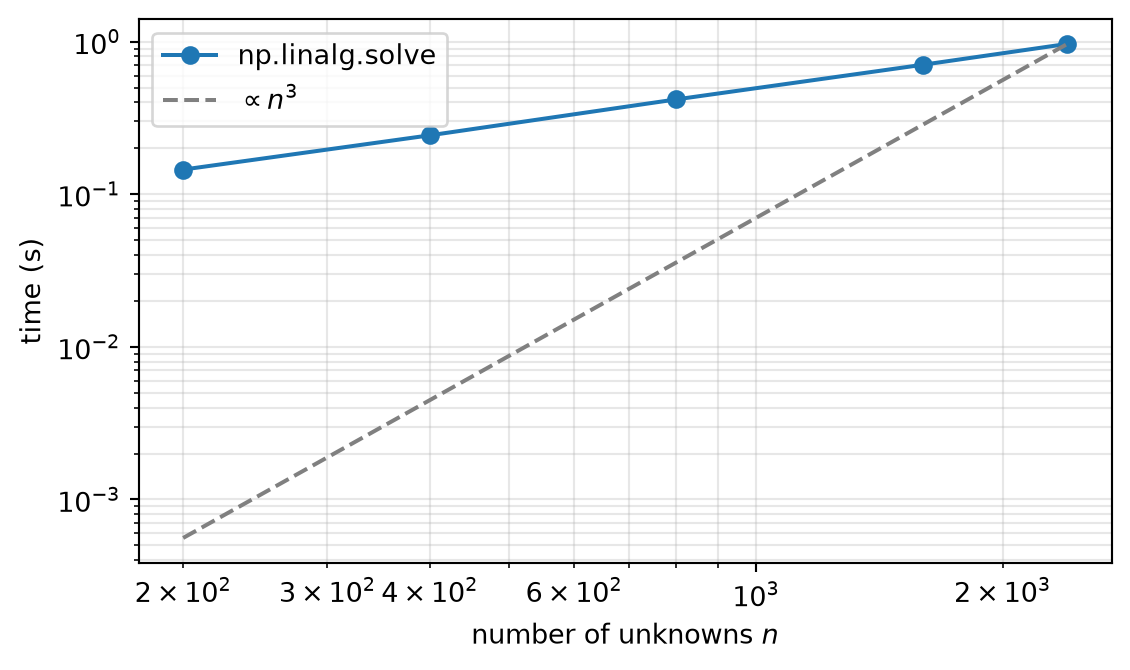
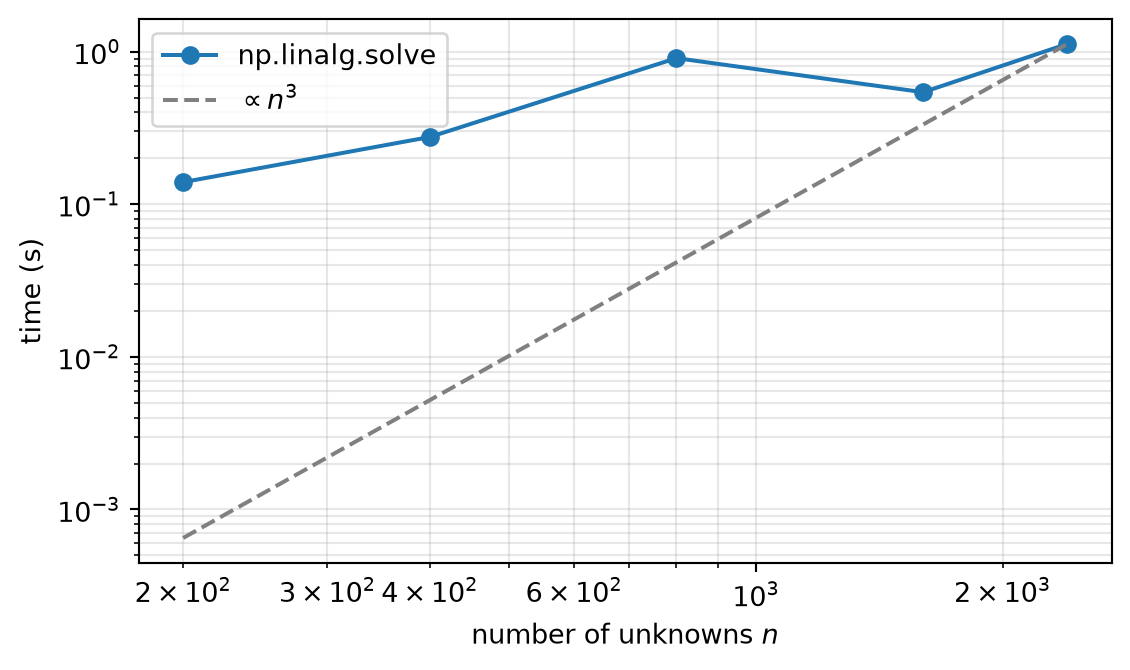
Making sure all figures are referred to in the text

diff --git a/site_libs/clipboard/clipboard.min.js b/site_libs/clipboard/clipboard.min.js
@@ -1,0 +1,7 @@
+/*!
+ * clipboard.js v2.0.11
+ * https://clipboardjs.com/
+ *
+ * Licensed MIT © Zeno Rocha
+ */
+!function(t,e){"object"==typeof exports&&"object"==typeof module?module.exports=e():"function"==typeof define&&define.amd?define([],e):"object"==typeof exports?exports.ClipboardJS=e():t.ClipboardJS=e()}(this,function(){return n={686:function(t,e,n){"use strict";n.d(e,{default:function(){return b}});var e=n(279),i=n.n(e),e=n(370),u=n.n(e),e=n(817),r=n.n(e);function c(t){try{return document.execCommand(t)}catch(t){return}}var a=function(t){t=r()(t);return c("cut"),t};function o(t,e){var n,o,t=(n=t,o="rtl"===document.documentElement.getAttribute("dir"),(t=document.createElement("textarea")).style.fontSize="12pt",t.style.border="0",t.style.padding="0",t.style.margin="0",t.style.position="absolute",t.style[o?"right":"left"]="-9999px",o=window.pageYOffset||document.documentElement.scrollTop,t.style.top="".concat(o,"px"),t.setAttribute("readonly",""),t.value=n,t);return e.container.appendChild(t),e=r()(t),c("copy"),t.remove(),e}var f=function(t){var e=1<arguments.length&&void 0!==arguments[1]?arguments[1]:{container:document.body},n="";return"string"==typeof t?n=o(t,e):t instanceof HTMLInputElement&&!["text","search","url","tel","password"].includes(null==t?void 0:t.type)?n=o(t.value,e):(n=r()(t),c("copy")),n};function l(t){return(l="function"==typeof Symbol&&"symbol"==typeof Symbol.iterator?function(t){return typeof t}:function(t){return t&&"function"==typeof Symbol&&t.constructor===Symbol&&t!==Symbol.prototype?"symbol":typeof t})(t)}var s=function(){var t=0<arguments.length&&void 0!==arguments[0]?arguments[0]:{},e=t.action,n=void 0===e?"copy":e,o=t.container,e=t.target,t=t.text;if("copy"!==n&&"cut"!==n)throw new Error('Invalid "action" value, use either "copy" or "cut"');if(void 0!==e){if(!e||"object"!==l(e)||1!==e.nodeType)throw new Error('Invalid "target" value, use a valid Element');if("copy"===n&&e.hasAttribute("disabled"))throw new Error('Invalid "target" attribute. Please use "readonly" instead of "disabled" attribute');if("cut"===n&&(e.hasAttribute("readonly")||e.hasAttribute("disabled")))throw new Error('Invalid "target" attribute. You can\'t cut text from elements with "readonly" or "disabled" attributes')}return t?f(t,{container:o}):e?"cut"===n?a(e):f(e,{container:o}):void 0};function p(t){return(p="function"==typeof Symbol&&"symbol"==typeof Symbol.iterator?function(t){return typeof t}:function(t){return t&&"function"==typeof Symbol&&t.constructor===Symbol&&t!==Symbol.prototype?"symbol":typeof t})(t)}function d(t,e){for(var n=0;n<e.length;n++){var o=e[n];o.enumerable=o.enumerable||!1,o.configurable=!0,"value"in o&&(o.writable=!0),Object.defineProperty(t,o.key,o)}}function y(t,e){return(y=Object.setPrototypeOf||function(t,e){return t.__proto__=e,t})(t,e)}function h(n){var o=function(){if("undefined"==typeof Reflect||!Reflect.construct)return!1;if(Reflect.construct.sham)return!1;if("function"==typeof Proxy)return!0;try{return Date.prototype.toString.call(Reflect.construct(Date,[],function(){})),!0}catch(t){return!1}}();return function(){var t,e=v(n);return t=o?(t=v(this).constructor,Reflect.construct(e,arguments,t)):e.apply(this,arguments),e=this,!(t=t)||"object"!==p(t)&&"function"!=typeof t?function(t){if(void 0!==t)return t;throw new ReferenceError("this hasn't been initialised - super() hasn't been called")}(e):t}}function v(t){return(v=Object.setPrototypeOf?Object.getPrototypeOf:function(t){return t.__proto__||Object.getPrototypeOf(t)})(t)}function m(t,e){t="data-clipboard-".concat(t);if(e.hasAttribute(t))return e.getAttribute(t)}var b=function(){!function(t,e){if("function"!=typeof e&&null!==e)throw new TypeError("Super expression must either be null or a function");t.prototype=Object.create(e&&e.prototype,{constructor:{value:t,writable:!0,configurable:!0}}),e&&y(t,e)}(r,i());var t,e,n,o=h(r);function r(t,e){var n;return function(t){if(!(t instanceof r))throw new TypeError("Cannot call a class as a function")}(this),(n=o.call(this)).resolveOptions(e),n.listenClick(t),n}return t=r,n=[{key:"copy",value:function(t){var e=1<arguments.length&&void 0!==arguments[1]?arguments[1]:{container:document.body};return f(t,e)}},{key:"cut",value:function(t){return a(t)}},{key:"isSupported",value:function(){var t=0<arguments.length&&void 0!==arguments[0]?arguments[0]:["copy","cut"],t="string"==typeof t?[t]:t,e=!!document.queryCommandSupported;return t.forEach(function(t){e=e&&!!document.queryCommandSupported(t)}),e}}],(e=[{key:"resolveOptions",value:function(){var t=0<arguments.length&&void 0!==arguments[0]?arguments[0]:{};this.action="function"==typeof t.action?t.action:this.defaultAction,this.target="function"==typeof t.target?t.target:this.defaultTarget,this.text="function"==typeof t.text?t.text:this.defaultText,this.container="object"===p(t.container)?t.container:document.body}},{key:"listenClick",value:function(t){var e=this;this.listener=u()(t,"click",function(t){return e.onClick(t)})}},{key:"onClick",value:function(t){var e=t.delegateTarget||t.currentTarget,n=this.action(e)||"copy",t=s({action:n,container:this.container,target:this.target(e),text:this.text(e)});this.emit(t?"success":"error",{action:n,text:t,trigger:e,clearSelection:function(){e&&e.focus(),window.getSelection().removeAllRanges()}})}},{key:"defaultAction",value:function(t){return m("action",t)}},{key:"defaultTarget",value:function(t){t=m("target",t);if(t)return document.querySelector(t)}},{key:"defaultText",value:function(t){return m("text",t)}},{key:"destroy",value:function(){this.listener.destroy()}}])&&d(t.prototype,e),n&&d(t,n),r}()},828:function(t){var e;"undefined"==typeof Element||Element.prototype.matches||((e=Element.prototype).matches=e.matchesSelector||e.mozMatchesSelector||e.msMatchesSelector||e.oMatchesSelector||e.webkitMatchesSelector),t.exports=function(t,e){for(;t&&9!==t.nodeType;){if("function"==typeof t.matches&&t.matches(e))return t;t=t.parentNode}}},438:function(t,e,n){var u=n(828);function i(t,e,n,o,r){var i=function(e,n,t,o){return function(t){t.delegateTarget=u(t.target,n),t.delegateTarget&&o.call(e,t)}}.apply(this,arguments);return t.addEventListener(n,i,r),{destroy:function(){t.removeEventListener(n,i,r)}}}t.exports=function(t,e,n,o,r){return"function"==typeof t.addEventListener?i.apply(null,arguments):"function"==typeof n?i.bind(null,document).apply(null,arguments):("string"==typeof t&&(t=document.querySelectorAll(t)),Array.prototype.map.call(t,function(t){return i(t,e,n,o,r)}))}},879:function(t,n){n.node=function(t){return void 0!==t&&t instanceof HTMLElement&&1===t.nodeType},n.nodeList=function(t){var e=Object.prototype.toString.call(t);return void 0!==t&&("[object NodeList]"===e||"[object HTMLCollection]"===e)&&"length"in t&&(0===t.length||n.node(t[0]))},n.string=function(t){return"string"==typeof t||t instanceof String},n.fn=function(t){return"[object Function]"===Object.prototype.toString.call(t)}},370:function(t,e,n){var f=n(879),l=n(438);t.exports=function(t,e,n){if(!t&&!e&&!n)throw new Error("Missing required arguments");if(!f.string(e))throw new TypeError("Second argument must be a String");if(!f.fn(n))throw new TypeError("Third argument must be a Function");if(f.node(t))return c=e,a=n,(u=t).addEventListener(c,a),{destroy:function(){u.removeEventListener(c,a)}};if(f.nodeList(t))return o=t,r=e,i=n,Array.prototype.forEach.call(o,function(t){t.addEventListener(r,i)}),{destroy:function(){Array.prototype.forEach.call(o,function(t){t.removeEventListener(r,i)})}};if(f.string(t))return t=t,e=e,n=n,l(document.body,t,e,n);throw new TypeError("First argument must be a String, HTMLElement, HTMLCollection, or NodeList");var o,r,i,u,c,a}},817:function(t){t.exports=function(t){var e,n="SELECT"===t.nodeName?(t.focus(),t.value):"INPUT"===t.nodeName||"TEXTAREA"===t.nodeName?((e=t.hasAttribute("readonly"))||t.setAttribute("readonly",""),t.select(),t.setSelectionRange(0,t.value.length),e||t.removeAttribute("readonly"),t.value):(t.hasAttribute("contenteditable")&&t.focus(),n=window.getSelection(),(e=document.createRange()).selectNodeContents(t),n.removeAllRanges(),n.addRange(e),n.toString());return n}},279:function(t){function e(){}e.prototype={on:function(t,e,n){var o=this.e||(this.e={});return(o[t]||(o[t]=[])).push({fn:e,ctx:n}),this},once:function(t,e,n){var o=this;function r(){o.off(t,r),e.apply(n,arguments)}return r._=e,this.on(t,r,n)},emit:function(t){for(var e=[].slice.call(arguments,1),n=((this.e||(this.e={}))[t]||[]).slice(),o=0,r=n.length;o<r;o++)n[o].fn.apply(n[o].ctx,e);return this},off:function(t,e){var n=this.e||(this.e={}),o=n[t],r=[];if(o&&e)for(var i=0,u=o.length;i<u;i++)o[i].fn!==e&&o[i].fn._!==e&&r.push(o[i]);return r.length?n[t]=r:delete n[t],this}},t.exports=e,t.exports.TinyEmitter=e}},r={},o.n=function(t){var e=t&&t.__esModule?function(){return t.default}:function(){return t};return o.d(e,{a:e}),e},o.d=function(t,e){for(var n in e)o.o(e,n)&&!o.o(t,n)&&Object.defineProperty(t,n,{enumerable:!0,get:e[n]})},o.o=function(t,e){return Object.prototype.hasOwnProperty.call(t,e)},o(686).default;function o(t){if(r[t])return r[t].exports;var e=r[t]={exports:{}};return n[t](e,e.exports,o),e.exports}var n,r});
